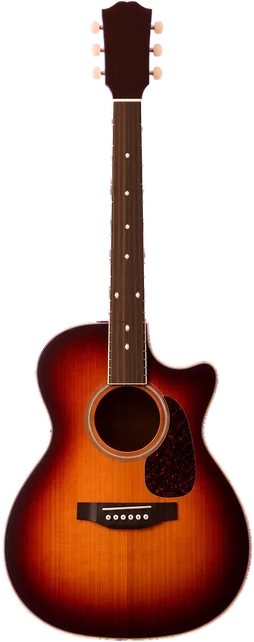
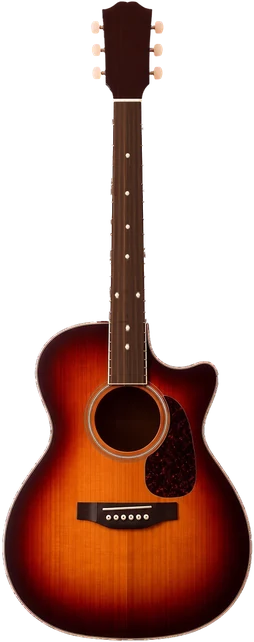
Road Ready: take the pink edge off the sunburst guitar
Only the sunburst picture changes: the magenta trace on its outer edge is removed and half-see-through edge pixels take the nearest solid colour.

Claude-Session: https://claude.ai/code/session_01JnUP7zfwzBFKGGwEQqVPqT

diff --git a/art/guitars/pics.js b/art/guitars/pics.js
@@ -1,4 +1,4 @@
 /* The numbers of each guitar picture, from tools/guitars/pics.py (4.87.0). Do not edit by hand.
    head and body: picture size, the neck's centre (cx) and width (nw) in its pixels; body.end: where the neck ends on
    the body; body.bridge: where the strings end; lit and shade: the neck's two halves. */
-export default {"parlor": {"head": {"w": 162, "h": 236, "cx": 80.5, "nw": 70.0}, "body": {"w": 454, "h": 612, "cx": 226.5, "nw": 70.0, "end": 152, "bridge": 389.2}, "lit": "#6a442d", "shade": "#4e2f1d"}, "cutaway": {"head": {"w": 156, "h": 209, "cx": 77.5, "nw": 60.0}, "body": {"w": 490, "h": 600, "cx": 244.5, "nw": 60.0, "end": 107, "bridge": 376.1}, "lit": "#623923", "shade": "#492c1a"}, "cutaway-sunburst": {"head": {"w": 386, "h": 559, "cx": 192.5, "nw": 160.0}, "body": {"w": 495, "h": 616, "cx": 247.5, "nw": 58.0, "end": 110, "bridge": 356.0}, "lit": "#60382c", "shade": "#492d21"}, "solid": {"head": {"w": 142, "h": 238, "cx": 66.5, "nw": 56.0}, "body": {"w": 426, "h": 589, "cx": 212.5, "nw": 56.0, "end": 133, "bridge": 381.7}, "lit": "#f3c98f", "shade": "#e3b174"}, "hollow": {"head": {"w": 318, "h": 442, "cx": 159.0, "nw": 123.0}, "body": {"w": 460, "h": 533, "cx": 230.0, "nw": 61.0, "end": 81, "bridge": 332.0}, "lit": "#3e3731", "shade": "#28231f"}, "single": {"head": {"w": 164, "h": 224, "cx": 81.5, "nw": 66.0}, "body": {"w": 446, "h": 558, "cx": 222.5, "nw": 66.0, "end": 93, "bridge": 351.3}, "lit": "#2d4a48", "shade": "#1d3633"}, "classical": {"head": {"w": 492, "h": 785, "cx": 245.5, "nw": 244.0}, "body": {"w": 504, "h": 633, "cx": 251.5, "nw": 78.0, "end": 142, "bridge": 385.5}, "lit": "#53372b", "shade": "#412b1e"}, "headliner": {"head": {"w": 476, "h": 692, "cx": 238.0, "nw": 175.0}, "body": {"w": 454, "h": 620, "cx": 226.5, "nw": 56.0, "end": 181, "bridge": 354.8}, "lit": "#1d1d1d", "shade": "#010100"}};
+export default {"parlor": {"head": {"w": 162, "h": 236, "cx": 80.5, "nw": 70.0}, "body": {"w": 454, "h": 612, "cx": 226.5, "nw": 70.0, "end": 152, "bridge": 389.2}, "lit": "#6a442d", "shade": "#4e2f1d"}, "cutaway": {"head": {"w": 156, "h": 209, "cx": 77.5, "nw": 60.0}, "body": {"w": 490, "h": 600, "cx": 244.5, "nw": 60.0, "end": 107, "bridge": 376.1}, "lit": "#623923", "shade": "#492c1a"}, "cutaway-sunburst": {"head": {"w": 386, "h": 559, "cx": 192.5, "nw": 160.0}, "body": {"w": 494, "h": 616, "cx": 247.5, "nw": 58.0, "end": 110, "bridge": 356.0}, "lit": "#60382c", "shade": "#492d21"}, "solid": {"head": {"w": 142, "h": 238, "cx": 66.5, "nw": 56.0}, "body": {"w": 426, "h": 589, "cx": 212.5, "nw": 56.0, "end": 133, "bridge": 381.7}, "lit": "#f3c98f", "shade": "#e3b174"}, "hollow": {"head": {"w": 318, "h": 442, "cx": 159.0, "nw": 123.0}, "body": {"w": 460, "h": 533, "cx": 230.0, "nw": 61.0, "end": 81, "bridge": 332.0}, "lit": "#3e3731", "shade": "#28231f"}, "single": {"head": {"w": 164, "h": 224, "cx": 81.5, "nw": 66.0}, "body": {"w": 446, "h": 558, "cx": 222.5, "nw": 66.0, "end": 93, "bridge": 351.3}, "lit": "#2d4a48", "shade": "#1d3633"}, "classical": {"head": {"w": 492, "h": 785, "cx": 245.5, "nw": 244.0}, "body": {"w": 504, "h": 633, "cx": 251.5, "nw": 78.0, "end": 142, "bridge": 385.5}, "lit": "#53372b", "shade": "#412b1e"}, "headliner": {"head": {"w": 476, "h": 692, "cx": 238.0, "nw": 175.0}, "body": {"w": 454, "h": 620, "cx": 226.5, "nw": 56.0, "end": 181, "bridge": 354.8}, "lit": "#1d1d1d", "shade": "#010100"}};

diff --git a/tools/guitars/pics.py b/tools/guitars/pics.py
@@ -81,9 +81,24 @@ def save(rgb, al, box, path, scale=1):
     return im.size
 
 hexc = lambda c: "#%02x%02x%02x" % tuple(int(v) for v in c)
+def defringe(rgb, al):
+    # the sunburst's edge kept a trace of the magenta background (pink specks, a pink halo on a cream page). On the
+    # outer 3 px, take the magenta out (red and blue both above green) and pull the half-see-through edge in a little.
+    ring = (al > 0) & ~ndimage.binary_erosion(al > .5, iterations=3)
+    ex = np.clip(np.minimum(rgb[..., 0], rgb[..., 2]) - rgb[..., 1], 0, None) * ring
+    rgb = rgb.copy(); rgb[..., 0] -= ex; rgb[..., 2] -= ex
+    # a half-see-through edge pixel takes the colour of the nearest solid pixel inside, so no pale pink fringe is left
+    solid = ndimage.binary_erosion(al > .98, iterations=2)
+    _, (iy, ix) = ndimage.distance_transform_edt(~solid, return_indices=True)
+    soft = ring & (al < .98)
+    rgb[soft] = rgb[iy, ix][soft]
+    return rgb, np.clip((al - .3) / .7, 0, 1)
+
 nums = {}
 for name in NAMES:
     rgb, al = cutout(f"{SRC}/{name}.jpg")
+    if name == "cutaway-sunburst":
+        rgb, al = defringe(rgb, al)
     if name == "cutaway":  # the picture kept a bridge; paint it in the top's colours (the app draws its own)
         m = measure(al, rgb)
         cx = int(m["cx"])
